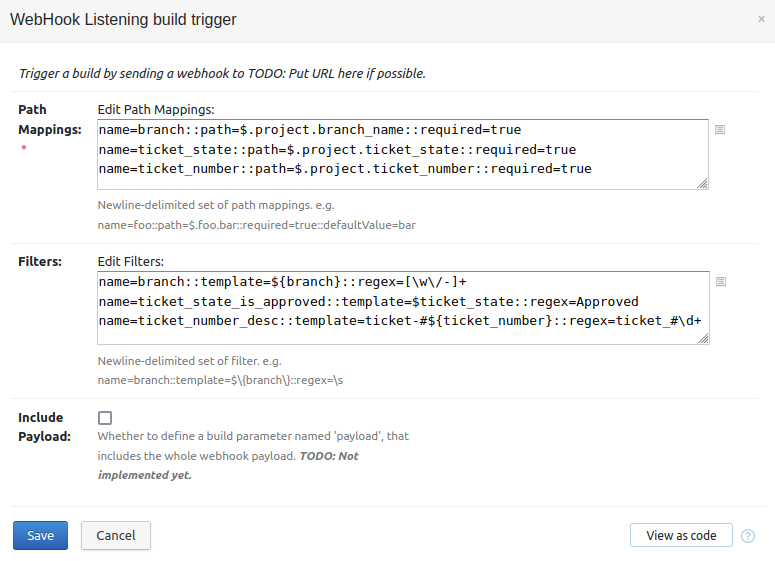
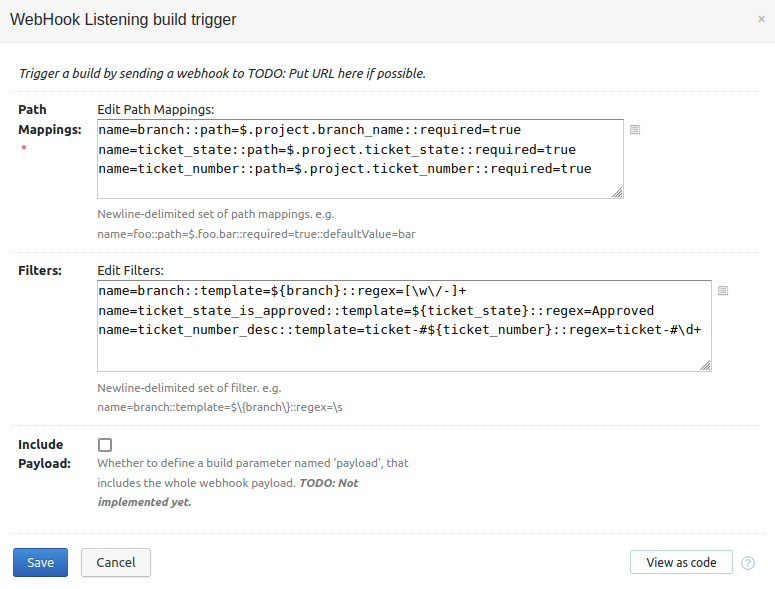
Fixup docs

diff --git a/readme.md b/readme.md
@@ -17,7 +17,7 @@ Example webhook payload.
   "project" : {
     "name" : "foo",
     "branch_name" : "bugfix/12345-fix-indenting",
-    "ticket_number" : 12345,
+    "ticket_number" : "12345",
     "ticket_title" : "Fix indenting on Application.java source code",
     "ticket_state" : "Approved"
   }
@@ -72,7 +72,7 @@ For the above example payload and example configuration, the build would be trig
 1. The value found at `$.project.ticket_number` would be assigned to the variable `ticket_number`. It is required, so the value must be present in the payload.
 1. A new filter variable will be created called `branch` from the value of the variable called `branch`. This value is then validated against the regular expression `[\w\/-]+`.
 1. A new filter variable will be created called `ticket_state_is_approved` from the variable called `ticket_state`. This value is validated against the regular expression `Approved`.
-1. A new filter variable will be created called `ticket_number_desc` from the template `ticket-#${ticket_number}`. This value is validated against the regular expression `ticket_#\d+`. It will result in a variable called `ticket_number_desc` containing the value `ticket-#12345`.
+1. A new filter variable will be created called `ticket_number_desc` from the template `ticket-#${ticket_number}`. This value is validated against the regular expression `ticket-#\d+`. It will result in a variable called `ticket_number_desc` containing the value `ticket-#12345`.
 1. The following build parameters will be defined and passed to the build.
 
 | Name | Value |
